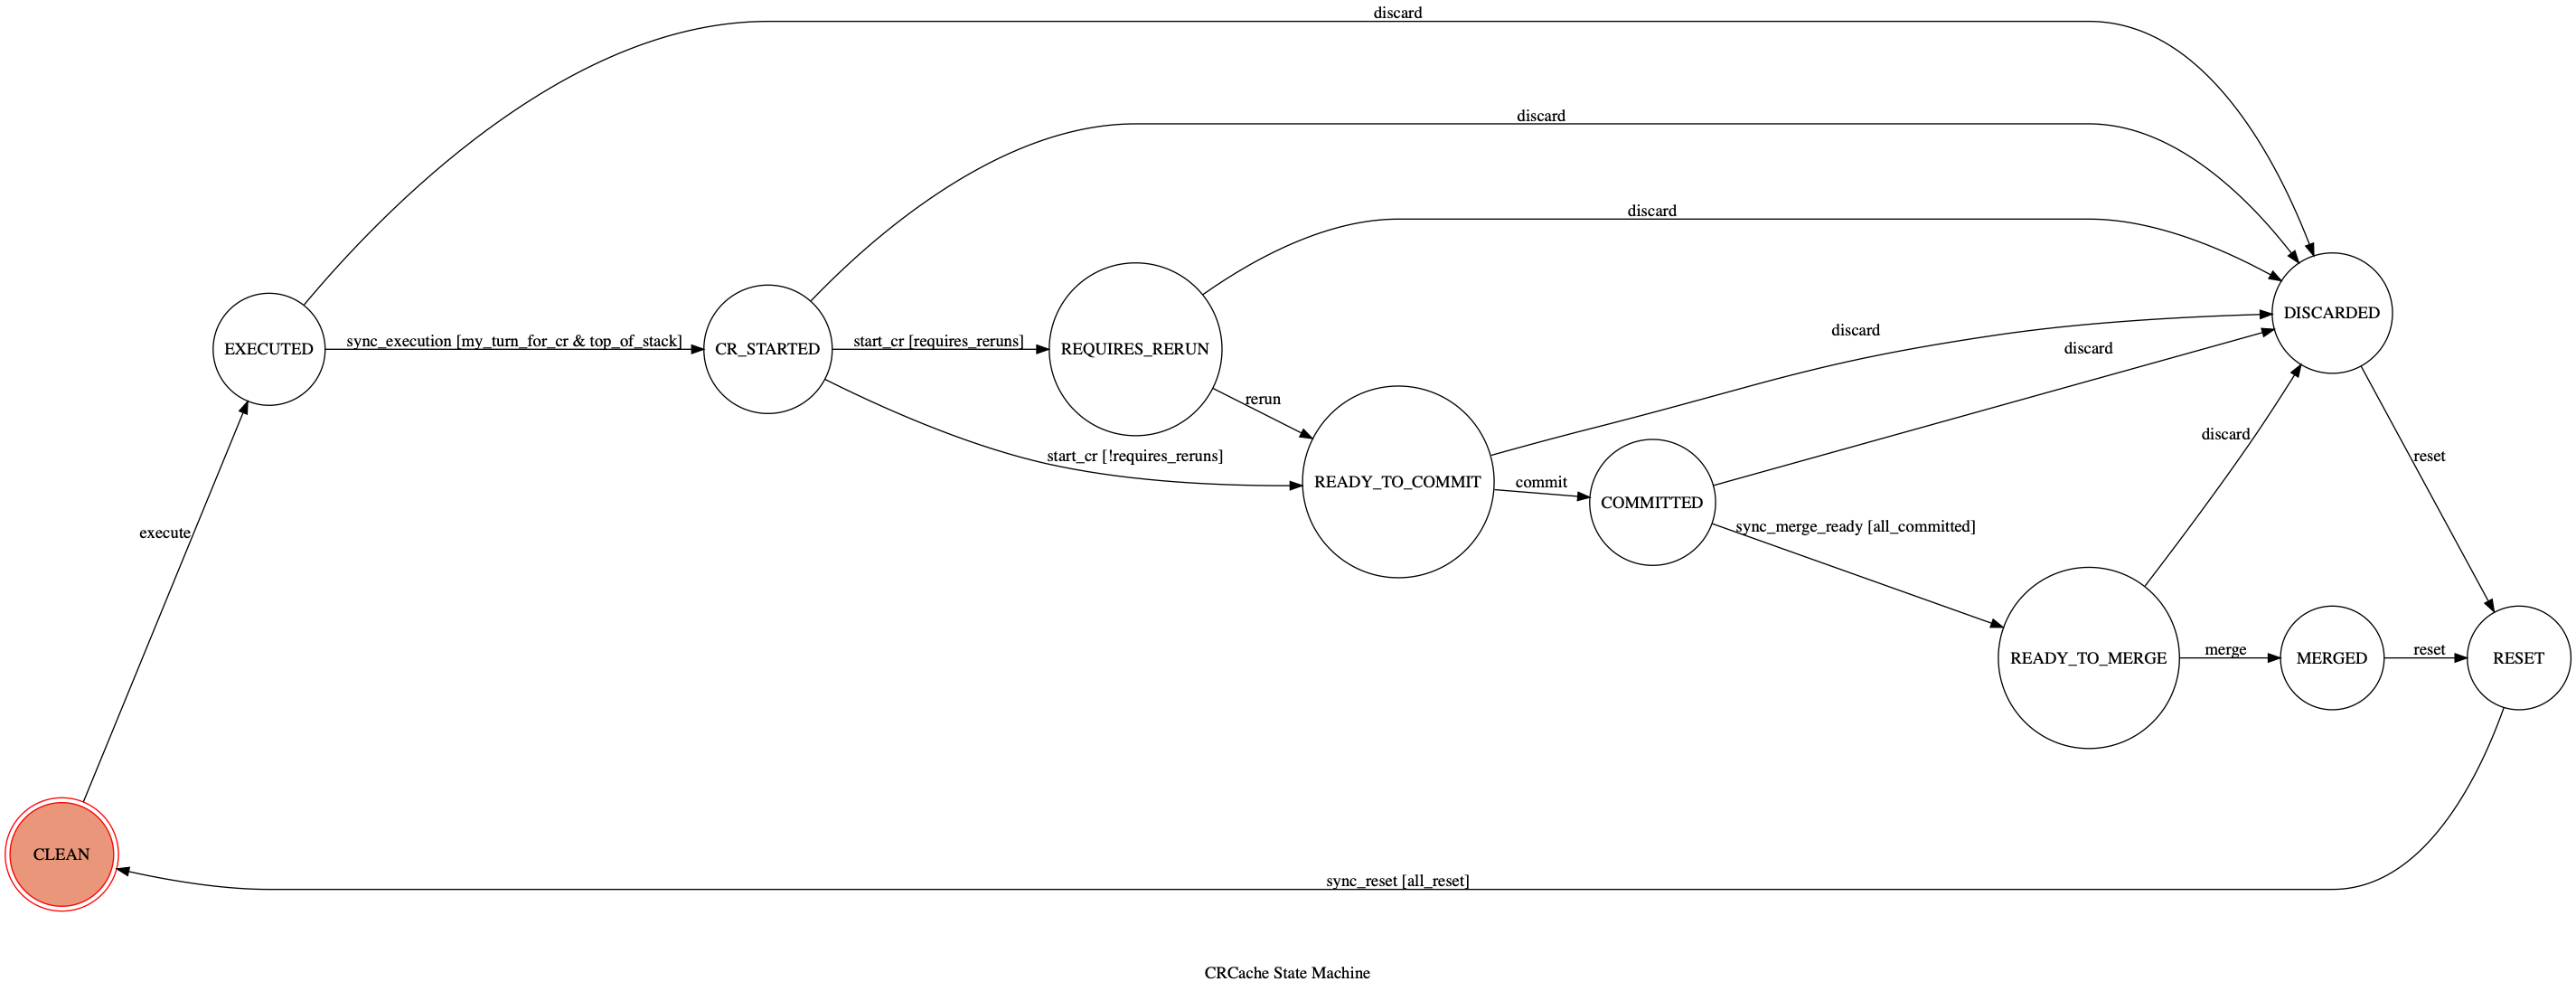
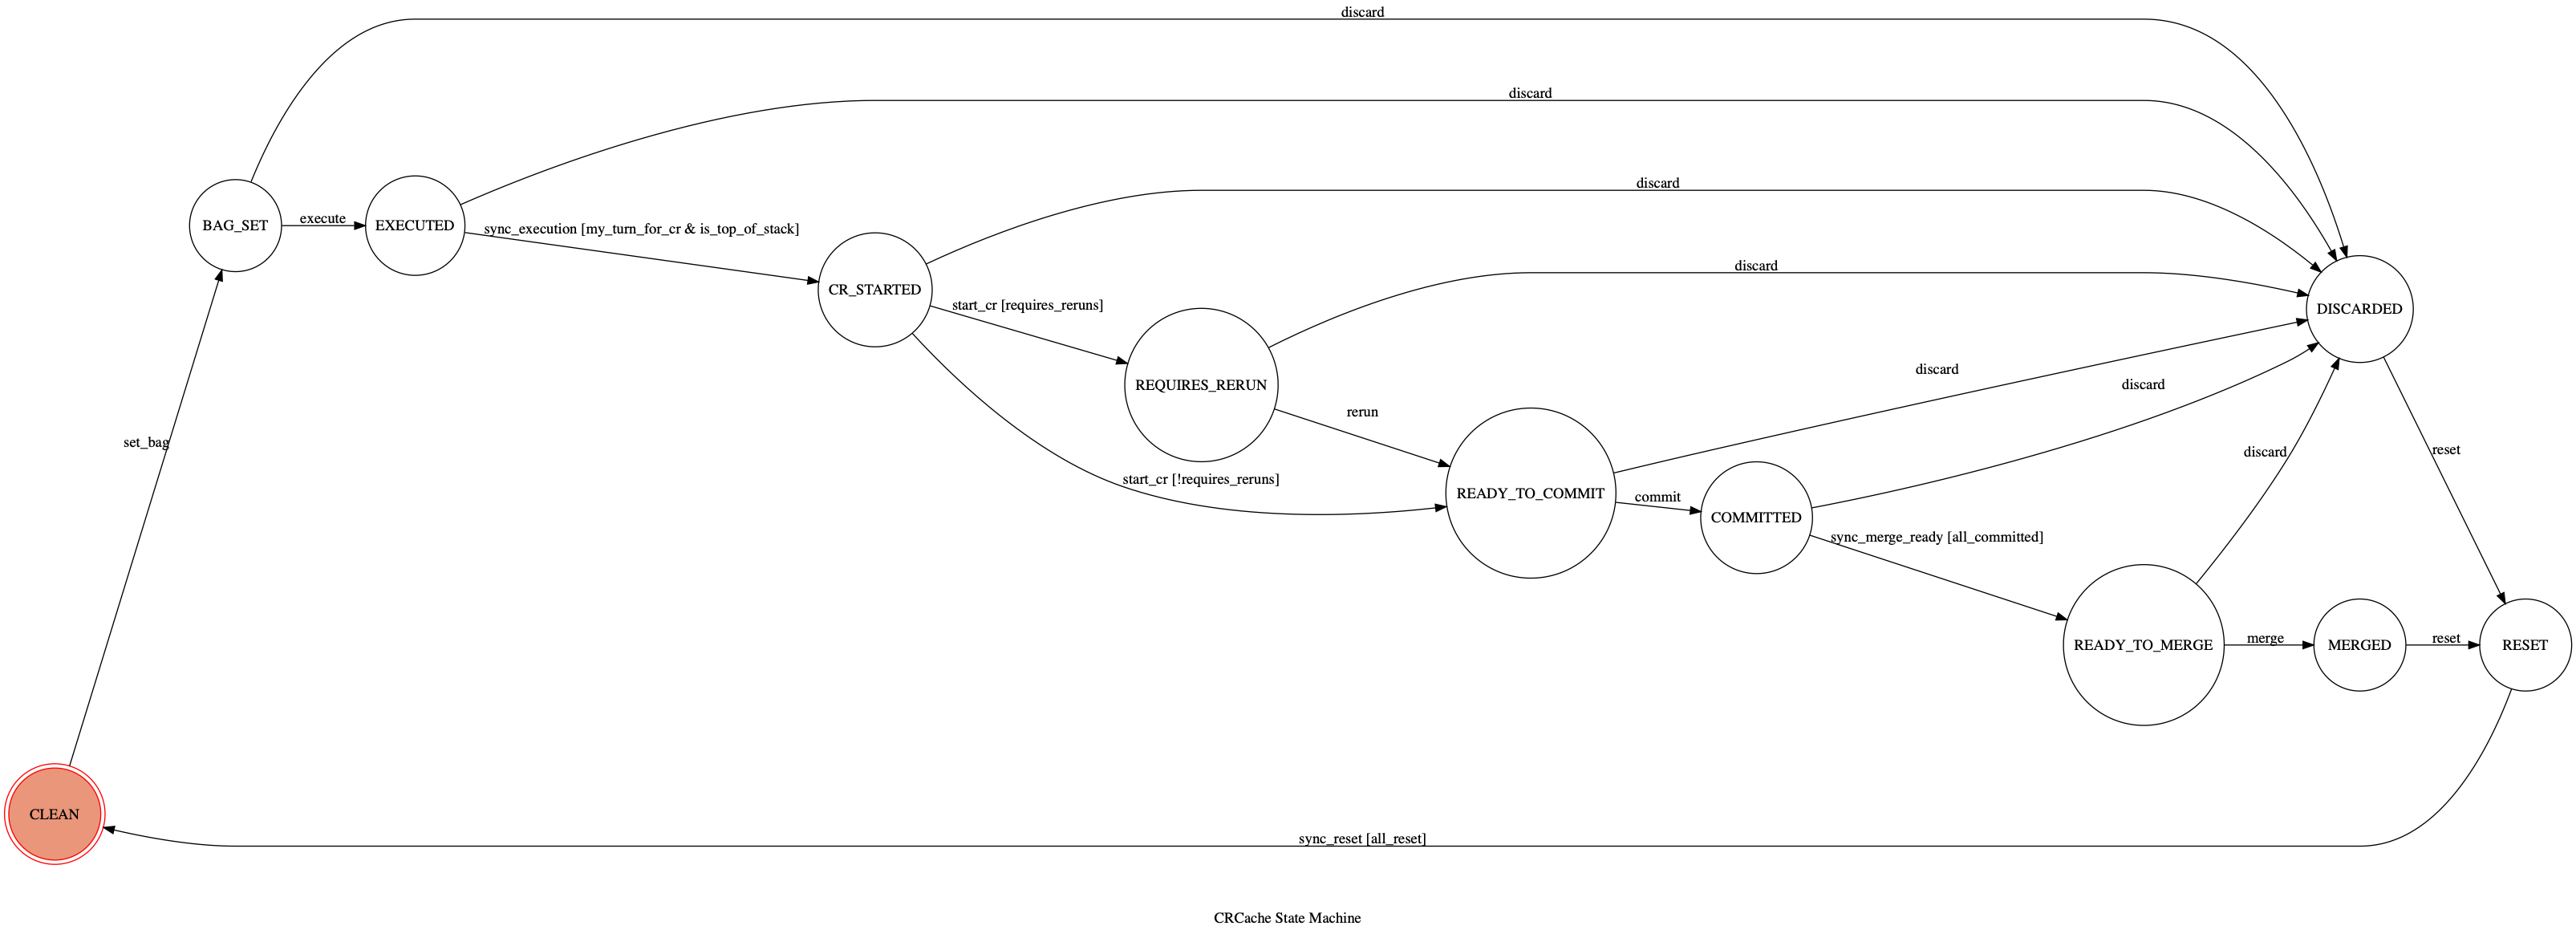
Updated state machine diagram following small changes

diff --git a/seneca/db/cr/cache.py b/seneca/db/cr/cache.py
@@ -140,7 +140,7 @@ class CRCache:
             },
             {
                 'trigger': 'discard',
-                'source': ['EXECUTED', 'CR_STARTED', 'REQUIRES_RERUN', 'READY_TO_COMMIT', 'COMMITTED', 'READY_TO_MERGE'],
+                'source': ['BAG_SET', 'EXECUTED', 'CR_STARTED', 'REQUIRES_RERUN', 'READY_TO_COMMIT', 'COMMITTED', 'READY_TO_MERGE'],
                 'dest': 'DISCARDED',
                 'after': 'reset'
             }